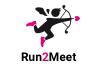
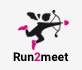
added margin bot on the submit btn and new images run2meet

Changed region(s): [[0.1463, 0.0588, 0.8537, 0.9118]]

diff --git a/index.html b/index.html
@@ -200,7 +200,7 @@
             <textarea name="message" placeholder=" Votre message"></textarea>
           </div>
           <div class="col-xs-12 col-sm-7 col-sm-offset-6">
-            <input class="btn btn-primary" type="submit" value="Send">
+            <input class="btn btn-primary marg-bot" type="submit" value="Send">
           </div>
         </form>
     </div>

diff --git a/stylesheets/home.css b/stylesheets/home.css
@@ -260,3 +260,7 @@ textarea {
 .fa-size {
   font-size: 24px;
 }
+
+.marg-bot {
+  margin-bottom: 55px;
+}
